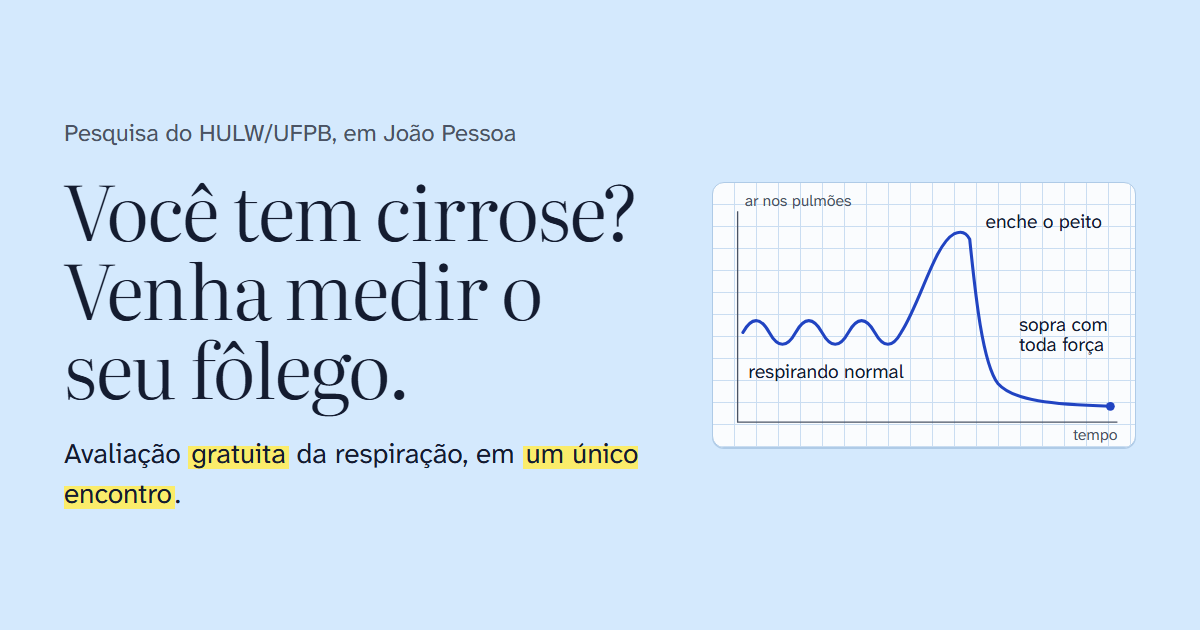
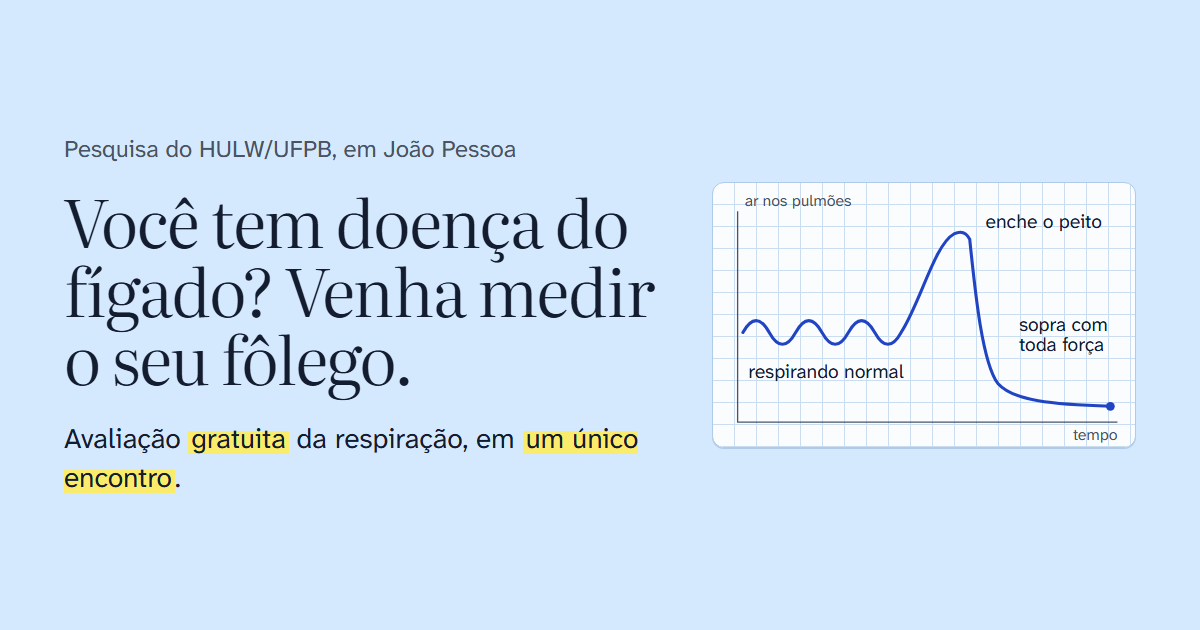
Troca "cirrose" por "doença do fígado" nos textos para o público
Mantém "cirrose" só no critério de quem pode participar e no título
oficial do estudo, no rodapé.

Changed region(s): [[0.0308, 0.3016, 0.555, 0.8143], [0.0308, 0.181, 0.4317, 0.2714]]

diff --git a/index.html b/index.html
@@ -3,13 +3,13 @@
 <head>
   <meta charset="utf-8">
   <meta name="viewport" content="width=device-width, initial-scale=1, viewport-fit=cover">
-  <title>Pesquisa sobre respiração na cirrose · HULW</title>
-  <meta name="description" content="Pesquisa do Hospital Universitário Lauro Wanderley (HULW/UFPB), em João Pessoa, convida adultos com cirrose no fígado para uma avaliação gratuita da respiração e do fôlego, em um único encontro.">
+  <title>Pesquisa sobre respiração e fígado · HULW</title>
+  <meta name="description" content="Pesquisa do Hospital Universitário Lauro Wanderley (HULW/UFPB), em João Pessoa, convida adultos com doença do fígado para uma avaliação gratuita da respiração e do fôlego, em um único encontro.">
   <meta name="theme-color" content="#d4e9fd">
 
   <meta property="og:type" content="website">
   <meta property="og:locale" content="pt_BR">
-  <meta property="og:title" content="Você tem cirrose? Venha medir o seu fôlego.">
+  <meta property="og:title" content="Você tem doença do fígado? Venha medir o seu fôlego.">
   <meta property="og:description" content="Avaliação gratuita da respiração, em um único encontro no HULW, em João Pessoa. Pesquisa aprovada pelo Comitê de Ética.">
   <meta property="og:image" content="https://mhfc-lgtm.github.io/pesquisa-respiracao-cirrose/assets/og.png">
   <meta property="og:image:width" content="1200">
@@ -28,11 +28,11 @@
   <a class="skip" href="#conteudo">Pular para o conteúdo</a>
 
   <header class="topo">
-    <a class="marca" href="#inicio" aria-label="Respiração na cirrose, início da página">
+    <a class="marca" href="#inicio" aria-label="Respiração e fígado, início da página">
       <svg class="marca__sinal" viewBox="0 0 40 24" aria-hidden="true">
         <path d="M2 14 C6 6 10 6 14 14 S22 22 26 14 S32 4 38 6" />
       </svg>
-      <span class="marca__nome">Respiração na cirrose</span>
+      <span class="marca__nome">Respiração e fígado</span>
     </a>
     <div class="topo__acoes">
       <button class="letra" type="button" aria-pressed="false" data-letra>
@@ -49,9 +49,9 @@
     <section class="abertura" id="inicio" aria-labelledby="titulo">
       <div class="abertura__texto" data-leitura>
         <p class="abertura__quem">Pesquisa do Hospital Universitário Lauro Wanderley (HULW), em João Pessoa</p>
-        <h1 id="titulo">Você tem cirrose? Venha medir o seu fôlego.</h1>
-        <p class="abertura__lede">Estamos convidando adultos com cirrose no fígado para uma avaliação da respiração e da força para caminhar. A avaliação é <mark>gratuita</mark> e acontece em <mark>um único encontro</mark>.</p>
-        <p class="abertura__lede abertura__lede--menor">Se você cuida de alguém com cirrose, pode preencher por essa pessoa.</p>
+        <h1 id="titulo">Você tem doença do fígado? Venha medir o seu fôlego.</h1>
+        <p class="abertura__lede">Estamos convidando adultos com doença do fígado para uma avaliação da respiração e da força para caminhar. A avaliação é <mark>gratuita</mark> e acontece em <mark>um único encontro</mark>.</p>
+        <p class="abertura__lede abertura__lede--menor">Se você cuida de alguém com doença do fígado, pode preencher por essa pessoa.</p>
 
         <div class="chamada" data-nao-ler>
           <a class="botao botao--grande" href="https://forms.gle/LZEvPkAZcpe3RCXU9" data-cta-principal>Quero participar</a>
@@ -122,7 +122,7 @@
         </div>
         <div class="ficha__linha">
           <dt>Quem pode</dt>
-          <dd>Adultos, com 18 anos ou mais, com cirrose no fígado, que conseguem caminhar alguns minutos. Pode usar bengala ou andador.</dd>
+          <dd>Adultos, com 18 anos ou mais, que têm cirrose (um tipo de doença do fígado) confirmada pelo médico e que conseguem caminhar alguns minutos. Pode usar bengala ou andador.</dd>
         </div>
       </dl>
     </section>
@@ -241,7 +241,7 @@
           </span>
           <div class="etapa__corpo">
             <h3>Pronto. Você volta para casa.</h3>
-            <p>Com a sua ajuda, os médicos vão entender melhor como a cirrose afeta a respiração e o fôlego. Isso pode melhorar o cuidado de outros pacientes, principalmente de quem espera um transplante de fígado.</p>
+            <p>Com a sua ajuda, os médicos vão entender melhor como a doença do fígado afeta a respiração e o fôlego. Isso pode melhorar o cuidado de outros pacientes, principalmente de quem espera um transplante de fígado.</p>
             <p>Quando a pesquisa terminar, você pode saber o resultado final.</p>
           </div>
         </li>
@@ -311,10 +311,10 @@
 
     <!-- Fecho -->
     <section class="fecho" id="participar" aria-labelledby="fecho-titulo">
-      <h2 id="fecho-titulo">Quer participar ou conhece alguém com cirrose?</h2>
+      <h2 id="fecho-titulo">Quer participar ou conhece alguém com doença do fígado?</h2>
       <div class="fecho__acoes">
         <a class="botao botao--grande" href="https://forms.gle/LZEvPkAZcpe3RCXU9" data-cta-final>Quero participar</a>
-        <a class="botao botao--contorno" href="https://wa.me/?text=Pesquisa%20do%20HULW%20sobre%20respira%C3%A7%C3%A3o%20na%20cirrose%3A%20avalia%C3%A7%C3%A3o%20gratuita%2C%20em%20um%20%C3%BAnico%20encontro.%20Veja%3A%20https%3A%2F%2Fmhfc-lgtm.github.io%2Fpesquisa-respiracao-cirrose%2F" data-whatsapp>
+        <a class="botao botao--contorno" href="https://wa.me/?text=Pesquisa%20do%20HULW%20sobre%20respira%C3%A7%C3%A3o%20e%20doen%C3%A7a%20do%20f%C3%ADgado%3A%20avalia%C3%A7%C3%A3o%20gratuita%2C%20em%20um%20%C3%BAnico%20encontro.%20Veja%3A%20https%3A%2F%2Fmhfc-lgtm.github.io%2Fpesquisa-respiracao-cirrose%2F" data-whatsapp>
           <svg viewBox="0 0 24 24" aria-hidden="true"><path d="M4 20l1.3-4A8 8 0 1 1 8.4 19z"/><path d="M9 8.5c0 3.5 3 6.5 6.5 6.5l1-1.6-2-1-1 1c-1.2-.5-2.4-1.7-2.9-2.9l1-1-1-2z"/></svg>
           Enviar no WhatsApp
         </a>

diff --git a/script.js b/script.js
@@ -1,4 +1,4 @@
-/* Respiração na cirrose — interações da página
+/* Respiração e fígado — interações da página
  * 1. "Letra maior": aumenta o texto da página toda (lembra a escolha neste aparelho).
  * 2. "Ouvir esta parte": lê a seção em voz alta com a voz do próprio celular/computador.
  * 3. Barra fixa "Quero participar" no celular, depois que o botão principal sai da tela.
@@ -146,7 +146,7 @@
   var zap = document.querySelector("[data-whatsapp]");
   if (zap && /^https?:/.test(window.location.protocol)) {
     var endereco = window.location.origin + window.location.pathname;
-    var msg = "Pesquisa do HULW sobre respiração na cirrose: avaliação gratuita, em um único encontro. Veja: " + endereco;
+    var msg = "Pesquisa do HULW sobre respiração e doença do fígado: avaliação gratuita, em um único encontro. Veja: " + endereco;
     zap.href = "https://wa.me/?text=" + encodeURIComponent(msg);
   }
 })();

diff --git a/styles.css b/styles.css
@@ -274,7 +274,7 @@ mark {
   font-weight: 340;
   line-height: 1.06;
   letter-spacing: -0.02em;
-  max-width: 13ch;
+  max-width: 15ch;
   margin-bottom: var(--space-lg);
 }
 
